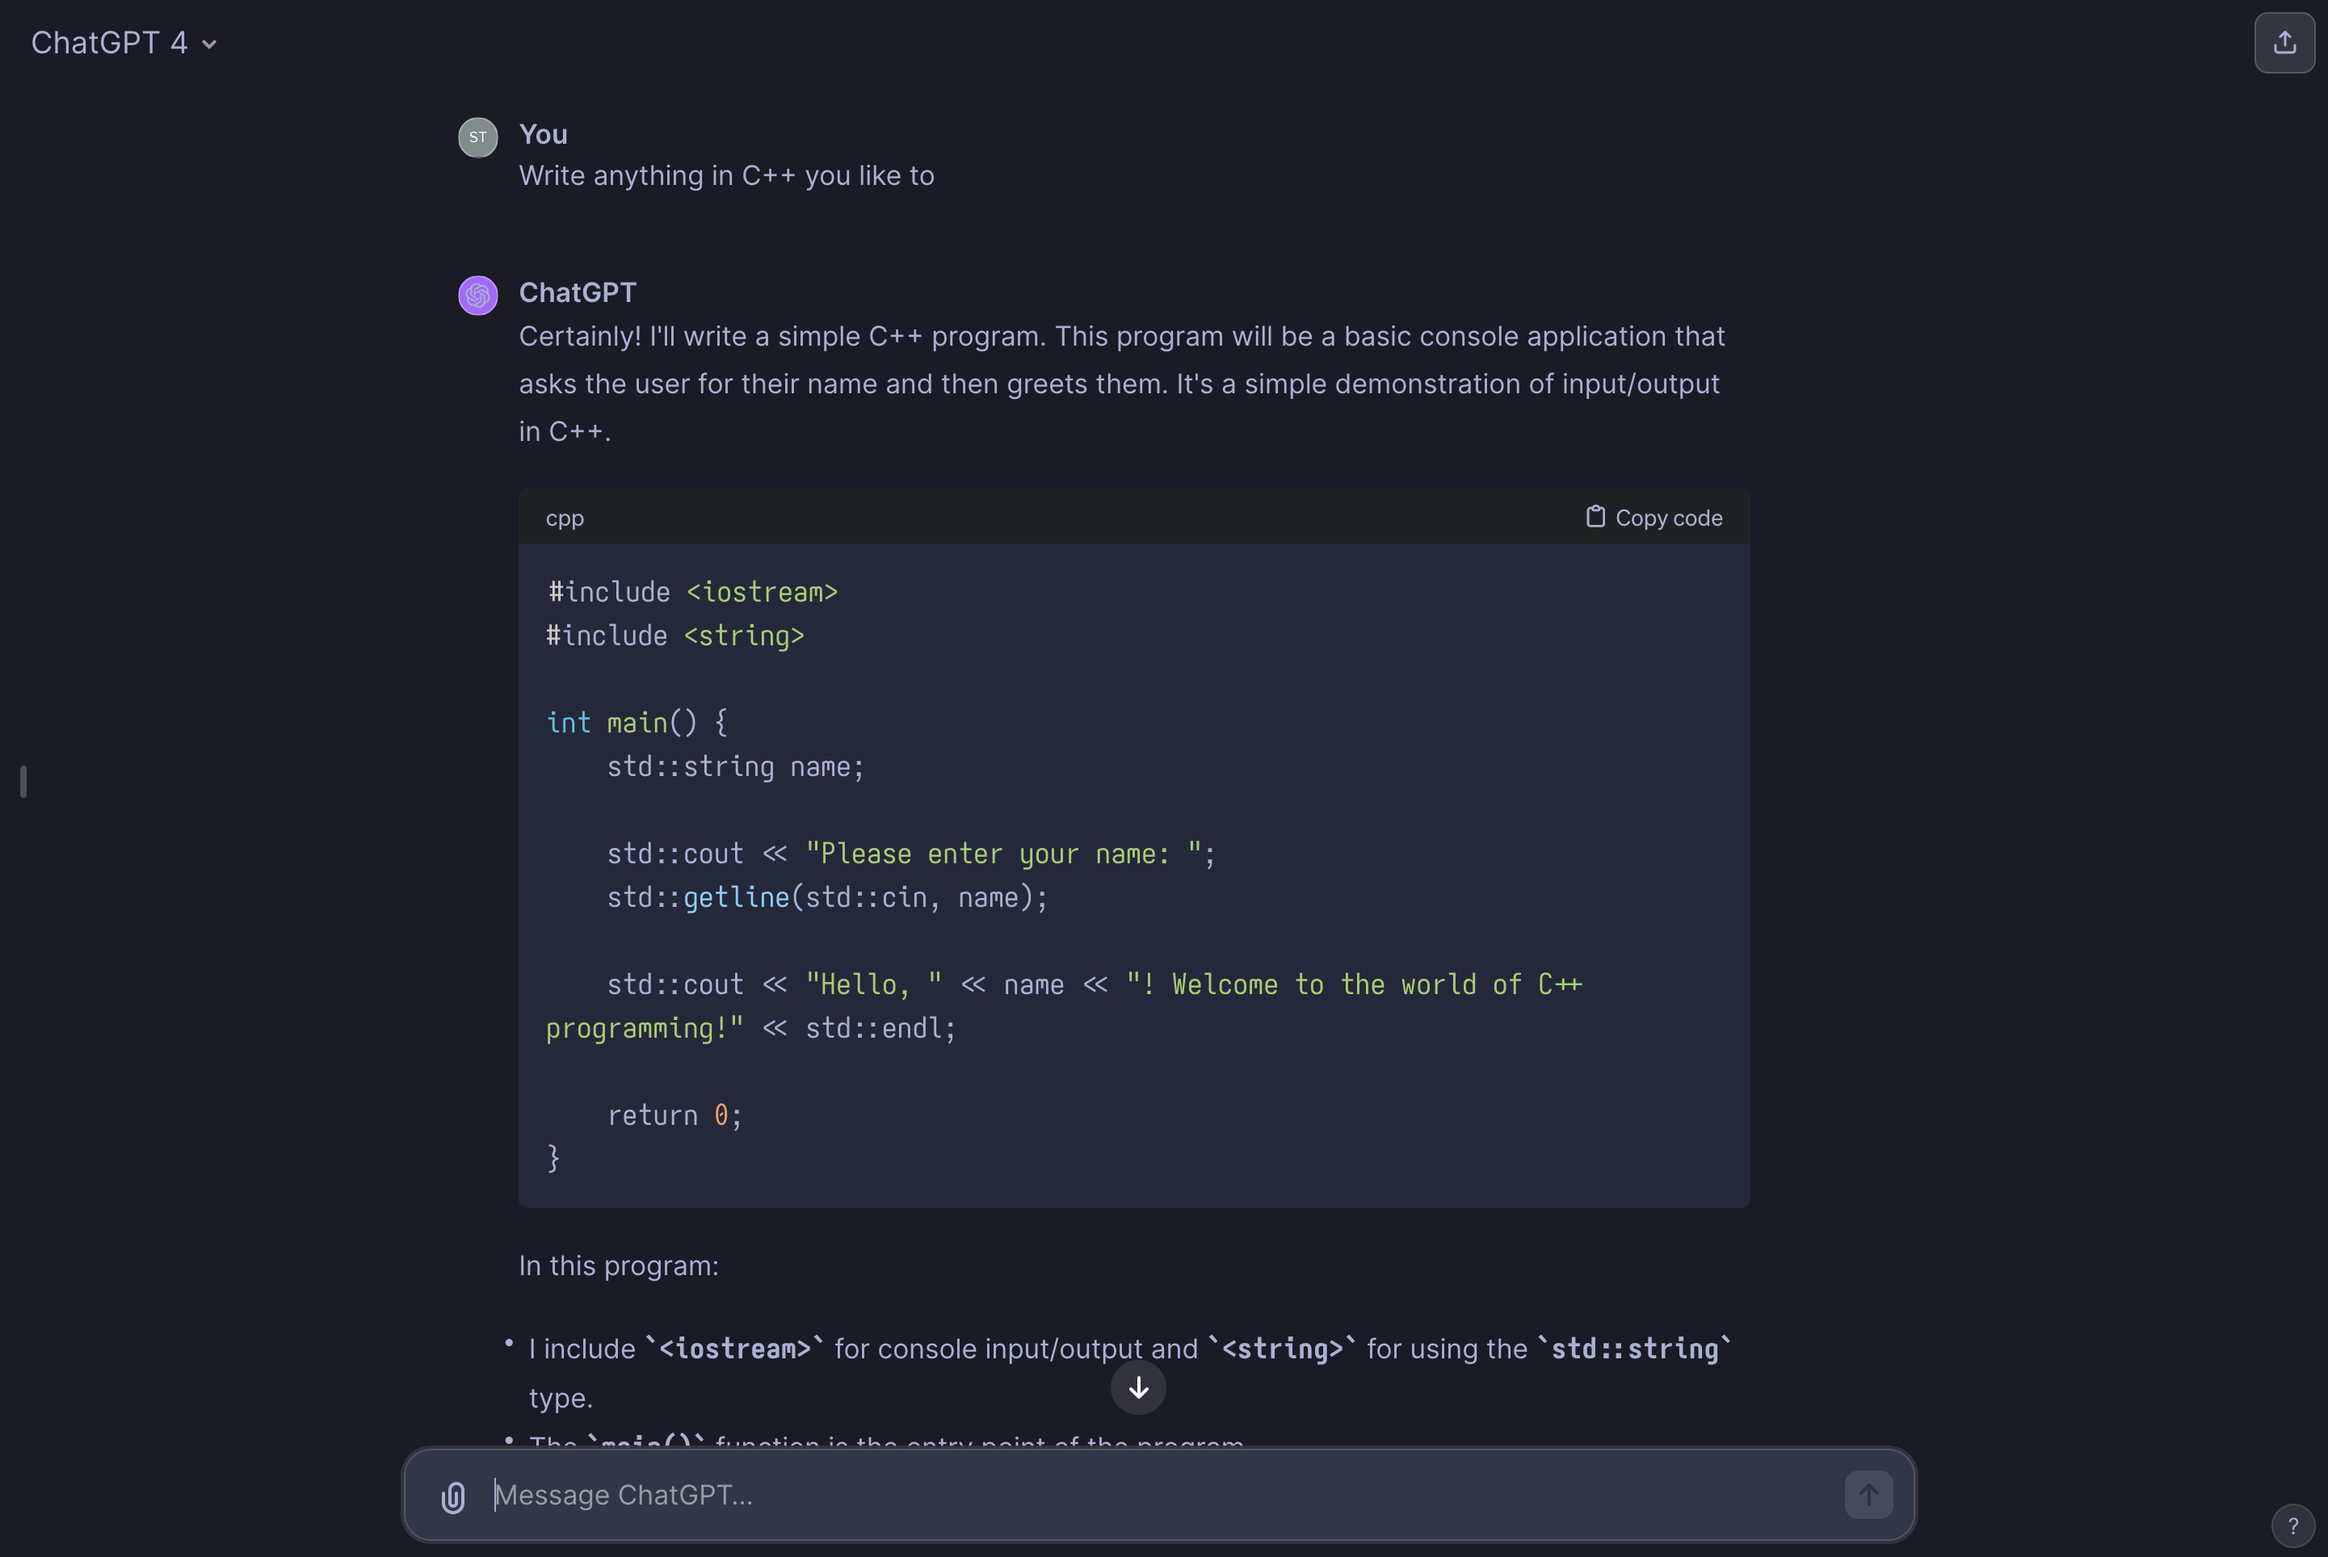
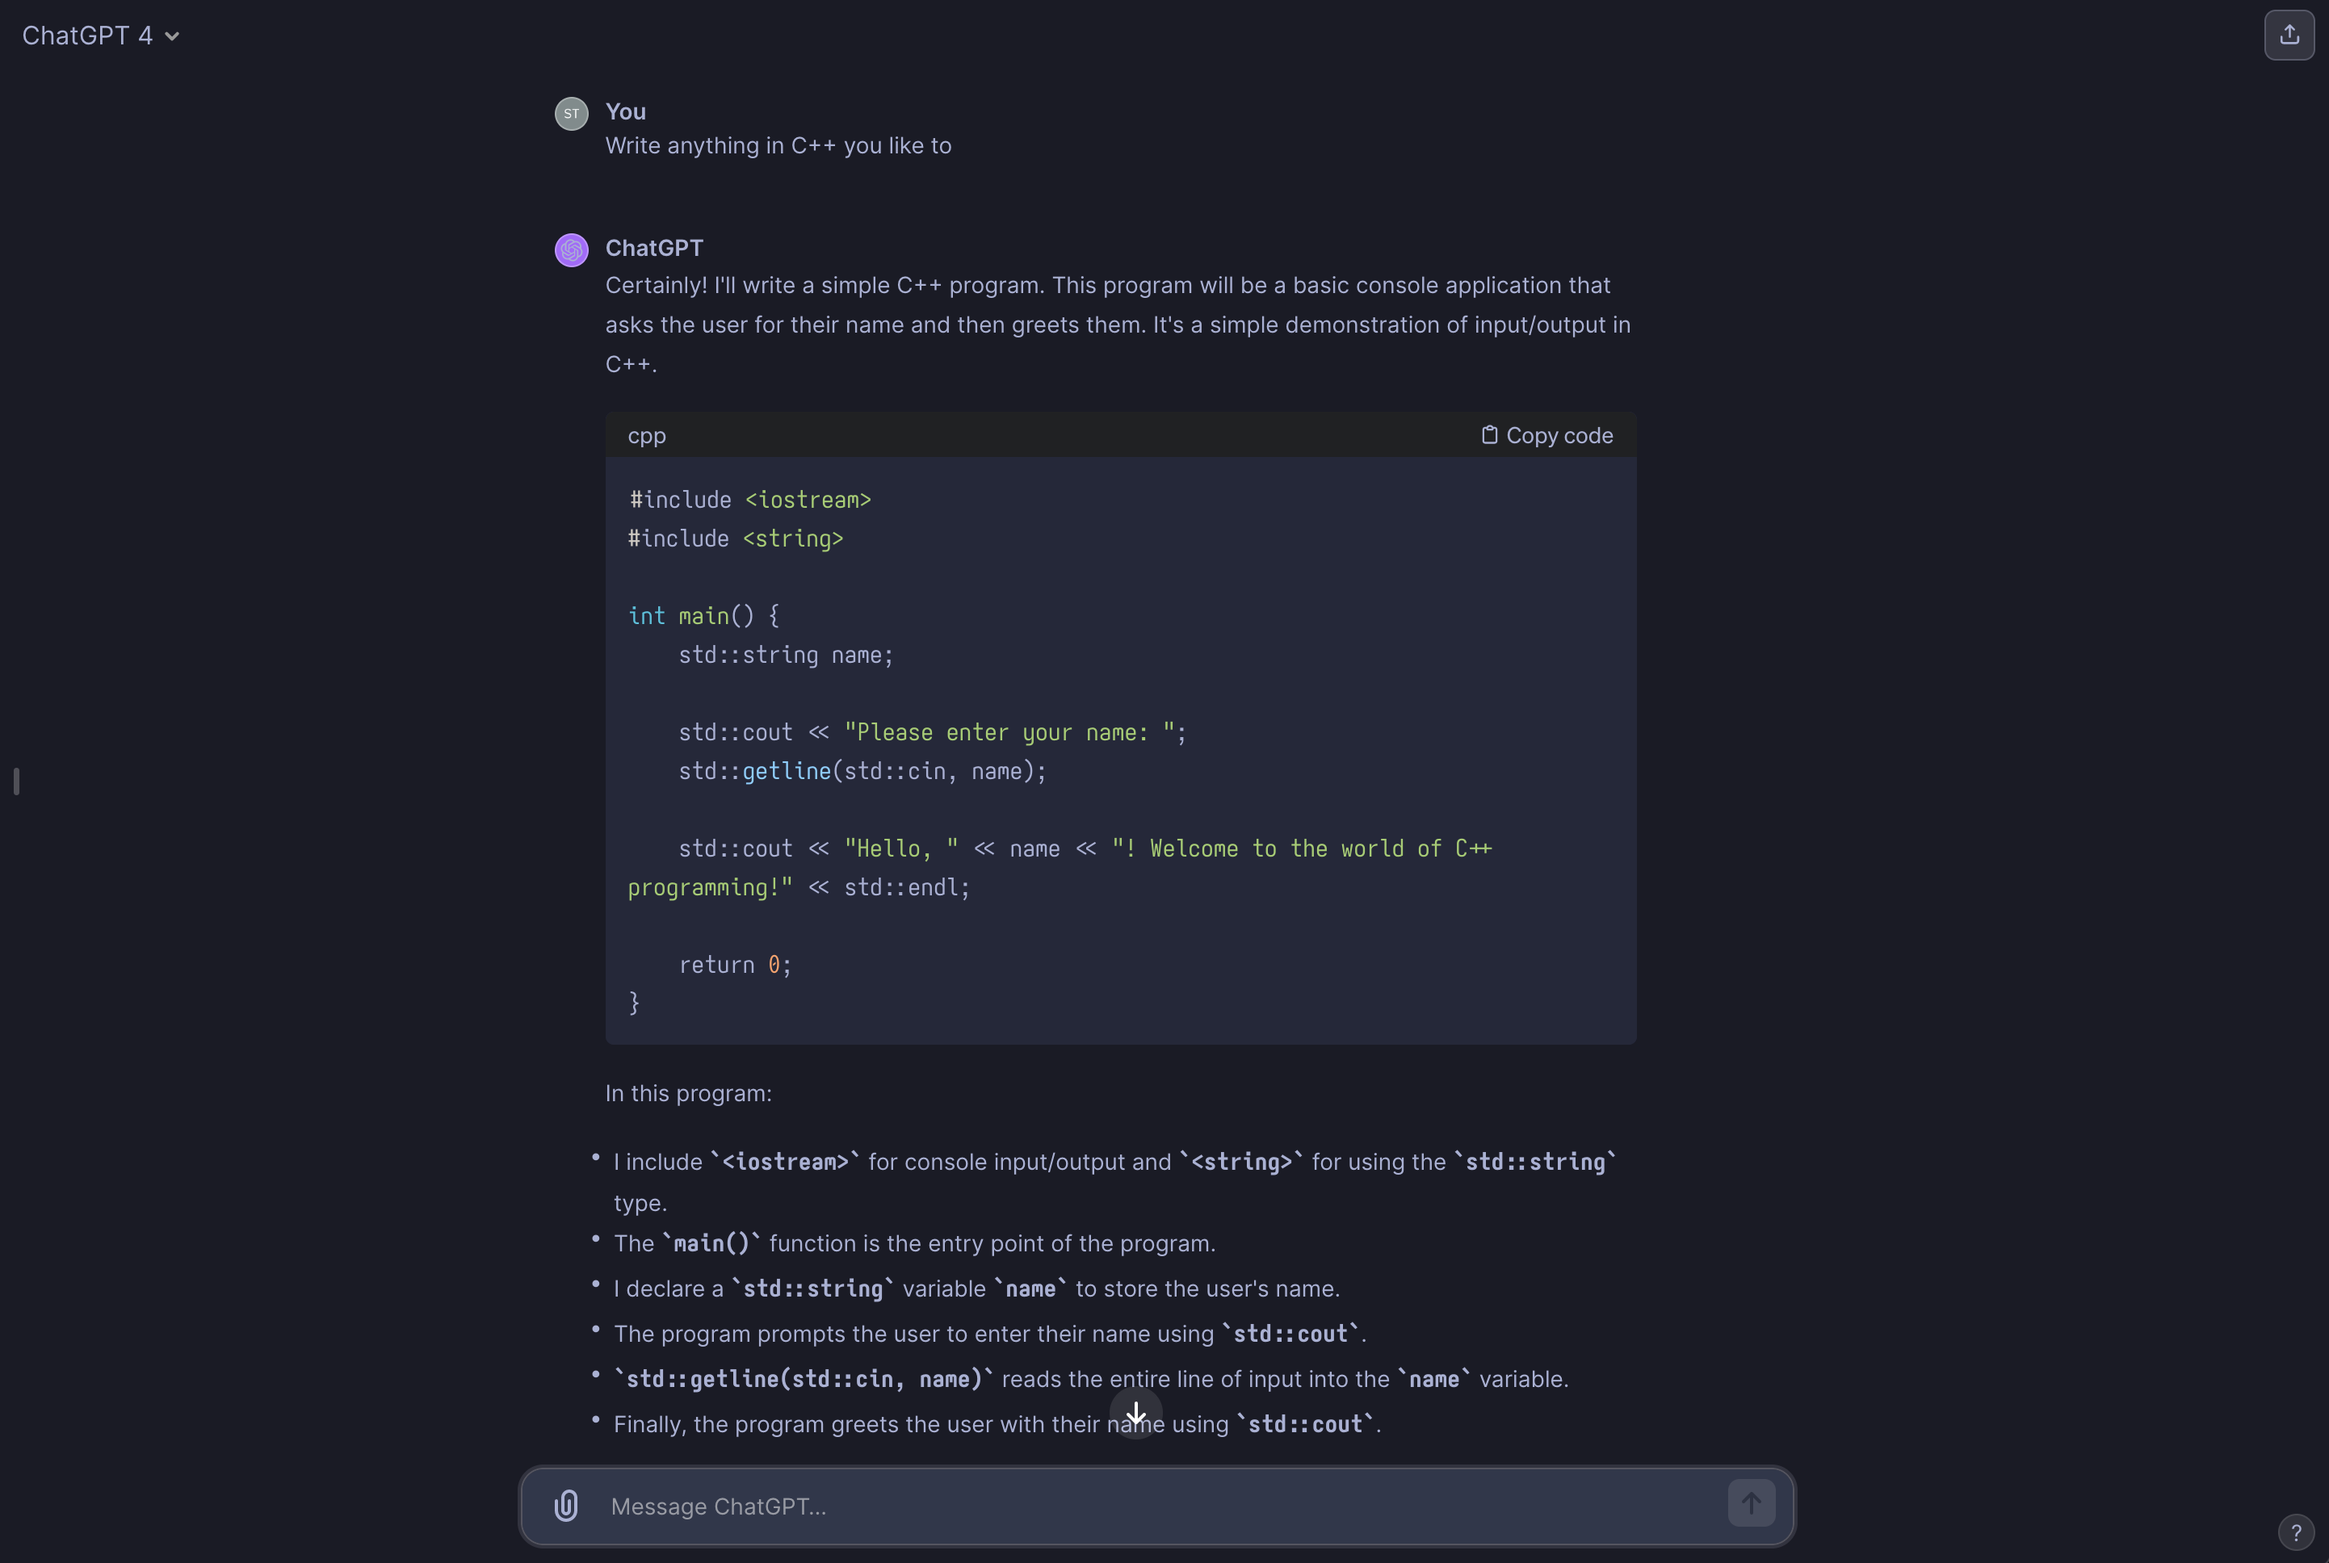
Improve responsiveness
Update preview

Update README

Remove redundant part

Update README

Bump version

Update README

diff --git a/style.css b/style.css
@@ -1,7 +1,7 @@
 /* ==UserStyle==
 @name         ChatGPT Tokyo Night Theme
 @namespace    https://github.com/lenntil/tokyo-night-chatgpt
-@version      1.0.0
+@version      1.0.1
 @description  A Tokyo Night theme for ChatGPT that uses dark blues and purples for a comfortable and stylish interface.
 @author       Starush
 @license      MIT License
@@ -20,19 +20,7 @@
   .xl\:max-w-3xl,
   .md\:max-w-3xl,
   form.stretch {
-    max-width: 67%;
-  }
-
-  /* Styles for small screens */
-  @media screen and (max-width: 1024px) {
-    .xl\:max-w-3xl,
-    .md\:max-w-3xl {
-      max-width: calc(100vw - 260px);
-    }
-
-    form.stretch {
-      max-width: calc(100vw - 260px);
-    }
+    max-width: calc(86ch + 8px + 2rem);
   }
 
   /* Styles for small screens */

diff --git a/README.md b/README.md
@@ -1,6 +1,14 @@
+# Tokyo Night Theme for ChatGPT
+
 ## Preview
 
 ![Preview Image](./preview.png)
+
+## Why?
+
+1. Tokyo Night is good!
+2. For better responsive layout with improved readability.
+3. More accessbile by people with vision problems.
 
 ## Notice
 
@@ -25,5 +33,6 @@ code {
 ```
 
 ## Reference
+
 - [Tokyo Night theme for Alacritty](https://github.com/zatchheems/tokyo-night-alacritty-theme)
 - [Tokyo Night theme for Helix](https://github.com/helix-editor/helix/wiki/Themes#night)
